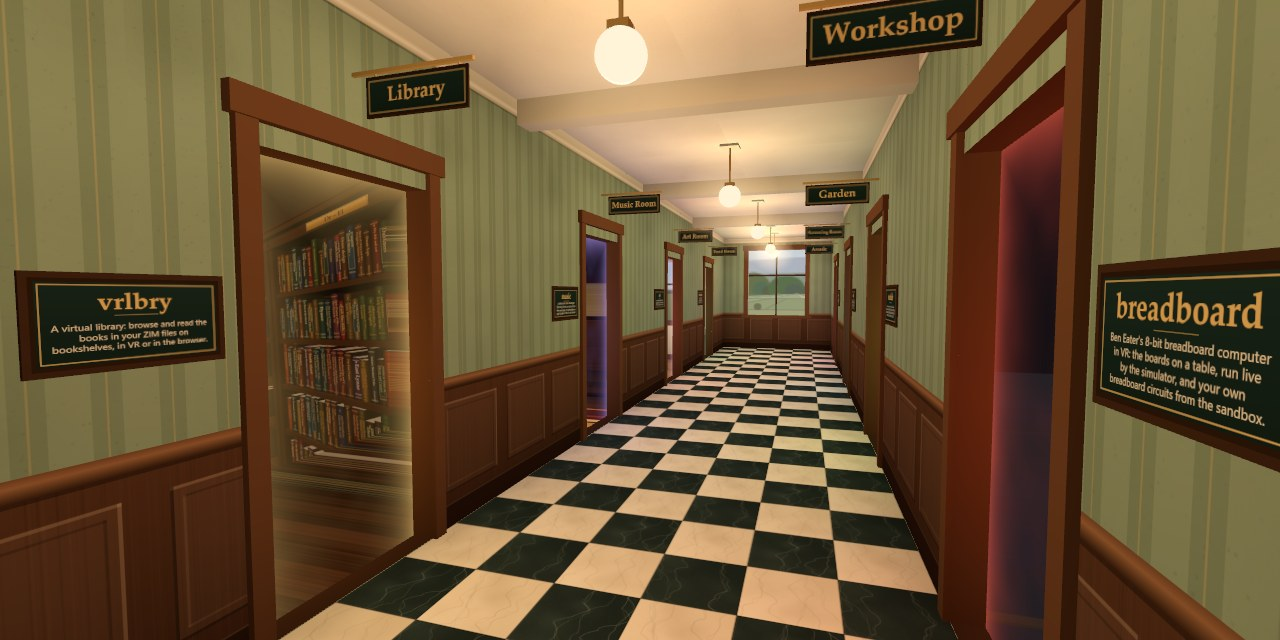
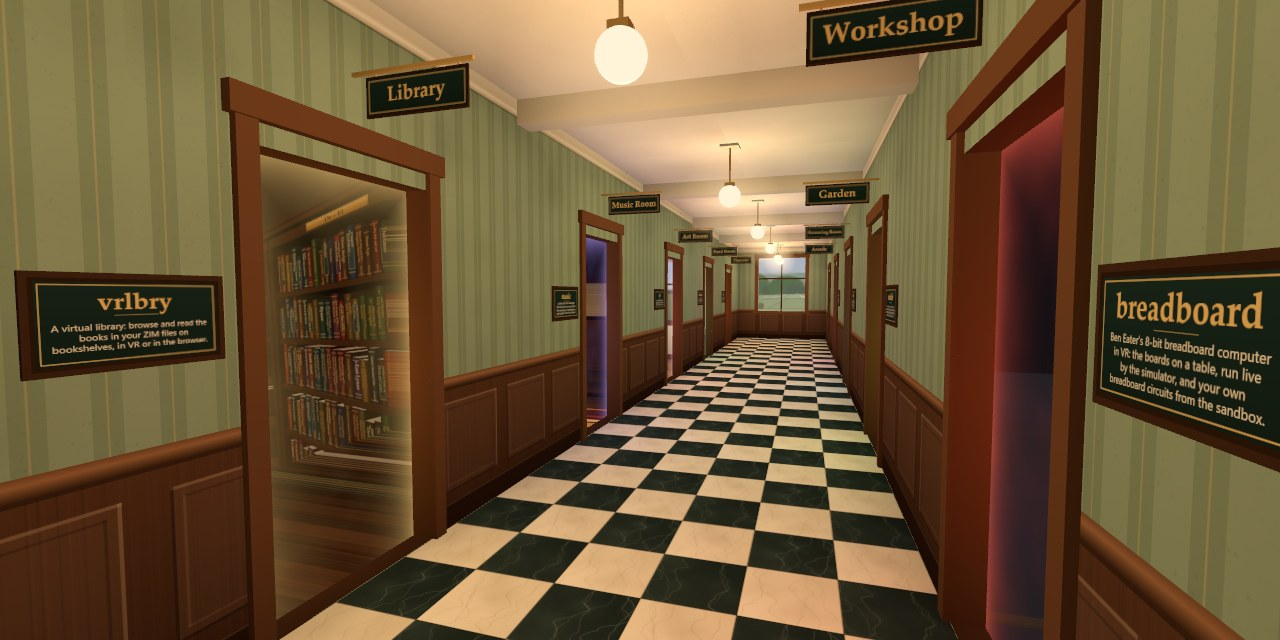
A door to blocks, and instruments' and arcade's plaques up to date
blocks, the fifth room made from AriaMoKr/RoomTemplateEmpty (AriaMoKr/blocks 78abb46), a
playroom of building toys with its marble run in (d7ba68b), gets a door after arcade's: Playroom,
#e8843a. Its entry is its config.js's hallwayDoor() as published, field for field (d7ba68b's: the
gear train being added in its checkout isn't live yet), and it is in the <noscript> list.
instruments' and arcade's subtitles are their pages' descriptions again: instruments' keyboard,
its synth's rack of modules and its electric guitar (AriaMoKr/instruments ef05647, c657063), and
arcade's Vectrex and Atari 2600 (AriaMoKr/arcade 42cb2fc, e69bb68). The README, CLAUDE.md and
the <noscript> list say what each has now and name blocks; CLAUDE.md's rooms from the template
are five, and all nine doors take the VR hand-over.

The hall grows by a pair: blocks' door is the left one at the far end (z -18.6), a closed door
across from it, and the far end is 20.1 m from the entrance's spawn (16.5 before). The plaques
fit whole, in five lines: blocks' at 19 px, instruments' and arcade's at 16 px, in this
computer's fonts.

The door views are all rendered again in a headless Chrome (door-views.mjs --chrome), with
views/blocks.jpg new and in views.json, so blocks' doorway back shows the hall. instruments' view
now looks across at the closed door where the end window was, arcade's at blocks' door and
plaque, and blocks' at the closed door, with the end window to its left and arcade's door to its
[…]

Changed region(s): [[0.5625, 0.3438, 0.6562, 0.5625]]

diff --git a/public/js/environments.js b/public/js/environments.js
@@ -82,7 +82,7 @@ export const ENVIRONMENTS = [
     // As art's: from RoomTemplateEmpty, its config.js's hallwayDoor().
     id: 'instruments',
     title: 'instruments',
-    subtitle: "A room of instruments behind the Hallway's door: a drum board of twelve analog pads and a six-voice analog synth to play, and soon a keyboard and an electric guitar. Walk it and play in VR on a Meta Quest, on a desktop or on a phone.",
+    subtitle: "A room of instruments behind the Hallway's door: a drum board of twelve analog pads, a six-voice analog synth with a rack of modules, a keyboard with an organ and an electric piano, and an electric guitar with its amp to play. Walk it and play in VR on a Meta Quest, on a desktop or on a phone.",
     sign: 'Band Room',
     url: 'https://ariamokr.github.io/instruments/',
     preview: 'https://ariamokr.github.io/instruments/hallway-preview.jpg',
@@ -92,10 +92,20 @@ export const ENVIRONMENTS = [
     // As art's: from RoomTemplateEmpty, its config.js's hallwayDoor().
     id: 'arcade',
     title: 'arcade',
-    subtitle: "A room behind the Hallway's door, becoming an arcade of old computers, game consoles and arcade machines: so far a Nintendo Entertainment System, a ZX Spectrum and an arcade cabinet to play. Walk it and play in VR on a Meta Quest, on a desktop or on a phone.",
+    subtitle: "A room behind the Hallway's door, becoming an arcade of old computers, game consoles and arcade machines: so far a Nintendo Entertainment System, a ZX Spectrum, an arcade cabinet, a Vectrex and an Atari 2600 to play. Walk it and play in VR on a Meta Quest, on a desktop or on a phone.",
     sign: 'Arcade',
     url: 'https://ariamokr.github.io/arcade/',
     preview: 'https://ariamokr.github.io/arcade/hallway-preview.jpg',
     color: '#d36fd8',
+  },
+  {
+    // As art's: from RoomTemplateEmpty, its config.js's hallwayDoor().
+    id: 'blocks',
+    title: 'blocks',
+    subtitle: "A playroom behind the Hallway's door, with a marble run to build on its table: four challenges and a free build, and gears, logs and planks to come. Build in VR on a Meta Quest, on a desktop or on a phone.",
+    sign: 'Playroom',
+    url: 'https://ariamokr.github.io/blocks/',
+    preview: 'https://ariamokr.github.io/blocks/hallway-preview.jpg',
+    color: '#e8843a',
   },
 ];

diff --git a/public/index.html b/public/index.html
@@ -41,8 +41,9 @@
       <li><a href="https://ariamokr.github.io/outside/">outside</a>: a small garden, a stream and a pond, and a bench to read on</li>
       <li><a href="https://ariamokr.github.io/art/">art</a>: a room, soon a gallery of art, with the way into VARTISTE's painting studio</li>
       <li><a href="https://ariamokr.github.io/video/">video</a>: rooms to watch old TV together in: a video store, a den, a screening room and a gallery of sets</li>
-      <li><a href="https://ariamokr.github.io/instruments/">instruments</a>: a room of instruments, with a drum board and a synth to play</li>
-      <li><a href="https://ariamokr.github.io/arcade/">arcade</a>: a room becoming an arcade, so far with a Nintendo, a ZX Spectrum and an arcade cabinet to play</li>
+      <li><a href="https://ariamokr.github.io/instruments/">instruments</a>: a room of instruments, with a drum board, a synth with a rack of modules, a keyboard and an electric guitar to play</li>
+      <li><a href="https://ariamokr.github.io/arcade/">arcade</a>: a room becoming an arcade, so far with a Nintendo, a ZX Spectrum, an arcade cabinet, a Vectrex and an Atari 2600 to play</li>
+      <li><a href="https://ariamokr.github.io/blocks/">blocks</a>: a playroom, with a marble run to build on its table</li>
     </ul>
   </div>
 </noscript>

diff --git a/CLAUDE.md b/CLAUDE.md
@@ -10,18 +10,19 @@ whose conventions this project follows), Breadboard 8-bit's VR view
 (https://ariamokr.github.io/breadboard/vr.html), music (https://ariamokr.github.io/music/,
 AriaMoKr/music: a music room built from vrlbry, where Gutenberg's books on music play their scores) and Outside (https://ariamokr.github.io/outside/,
 AriaMoKr/outside: a small garden built for the door link, whose `HALLWAY_DOOR` in
-`public/js/way.js` is its entry here; keep them in step), and four rooms made from
+`public/js/way.js` is its entry here; keep them in step), and five rooms made from
 AriaMoKr/RoomTemplateEmpty: art (https://ariamokr.github.io/art/, AriaMoKr/art, soon a gallery,
 with the way into VARTISTE's painting studio on its wall), video (https://ariamokr.github.io/video/,
 AriaMoKr/video, rooms to watch old TV together in: a video store, a den, a screening room and a
 gallery of sets), instruments
-(https://ariamokr.github.io/instruments/, AriaMoKr/instruments, a drum board of twelve pads and a
-synth to play, soon a keyboard and an electric guitar) and arcade
+(https://ariamokr.github.io/instruments/, AriaMoKr/instruments, a drum board of twelve pads, a
+synth with a rack of modules, a keyboard and an electric guitar to play), arcade
 (https://ariamokr.github.io/arcade/, AriaMoKr/arcade, becoming an arcade of old computers, game
-consoles and arcade machines, so far with a Nintendo, a ZX Spectrum and an arcade cabinet to
-play), each with its entry here as its `public/js/config.js`'s
-`hallwayDoor()`. All eight take the VR hand-over. On an Android TV the hallway runs in
-AriaMoKr/HallwayApp (the site in a full-screen WebView whose user agent ends
+consoles and arcade machines, so far with a Nintendo, a ZX Spectrum, an arcade cabinet, a Vectrex
+and an Atari 2600 to play) and blocks (https://ariamokr.github.io/blocks/, AriaMoKr/blocks, a
+playroom with a marble run to build on its table), each with its entry here as its
+`public/js/config.js`'s `hallwayDoor()`. All nine take the VR hand-over. On an Android TV the
+hallway runs in AriaMoKr/HallwayApp (the site in a full-screen WebView whose user agent ends
 ` HallwayTV/<version>`; its README has the install, the build and its release workflow), where
 the page is in TV mode (common's `tv.js`).
 `public/` is the whole site. `README.md` covers

diff --git a/README.md b/README.md
@@ -11,12 +11,13 @@ room where Project Gutenberg's books on music play their scores;
 read on; [art](https://ariamokr.github.io/art/), soon a gallery of art, with the way into
 VARTISTE's painting studio on its wall; [video](https://ariamokr.github.io/video/), rooms to watch
 old TV together in: a video store, a den, a screening room and a gallery of sets;
-[instruments](https://ariamokr.github.io/instruments/), a room of instruments with a drum board
-and a synth to play; and [arcade](https://ariamokr.github.io/arcade/),
-a room becoming an arcade of old computers, game consoles and arcade machines, so far with a
-Nintendo, a ZX Spectrum and an arcade cabinet to play. Walk the hallway in VR on a Meta Quest, on
-a desktop or on a phone, with nothing to install, or on an Android TV with its remote, in
-[the TV app](#the-tv-app).
+[instruments](https://ariamokr.github.io/instruments/), a room of instruments with a drum board, a
+synth with a rack of modules, a keyboard and an electric guitar to play;
+[arcade](https://ariamokr.github.io/arcade/), a room becoming an arcade of old computers, game
+consoles and arcade machines, so far with a Nintendo, a ZX Spectrum, an arcade cabinet, a Vectrex
+and an Atari 2600 to play; and [blocks](https://ariamokr.github.io/blocks/), a playroom with a
+marble run to build on its table. Walk the hallway in VR on a Meta Quest, on a desktop or on a
+phone, with nothing to install, or on an Android TV with its remote, in [the TV app](#the-tv-app).
 
 ![The hallway: a library's bookcases through an open door under a Library sign, and more doors and signs down a chequered floor to a window onto fields in the afternoon](public/social.jpg)
 
